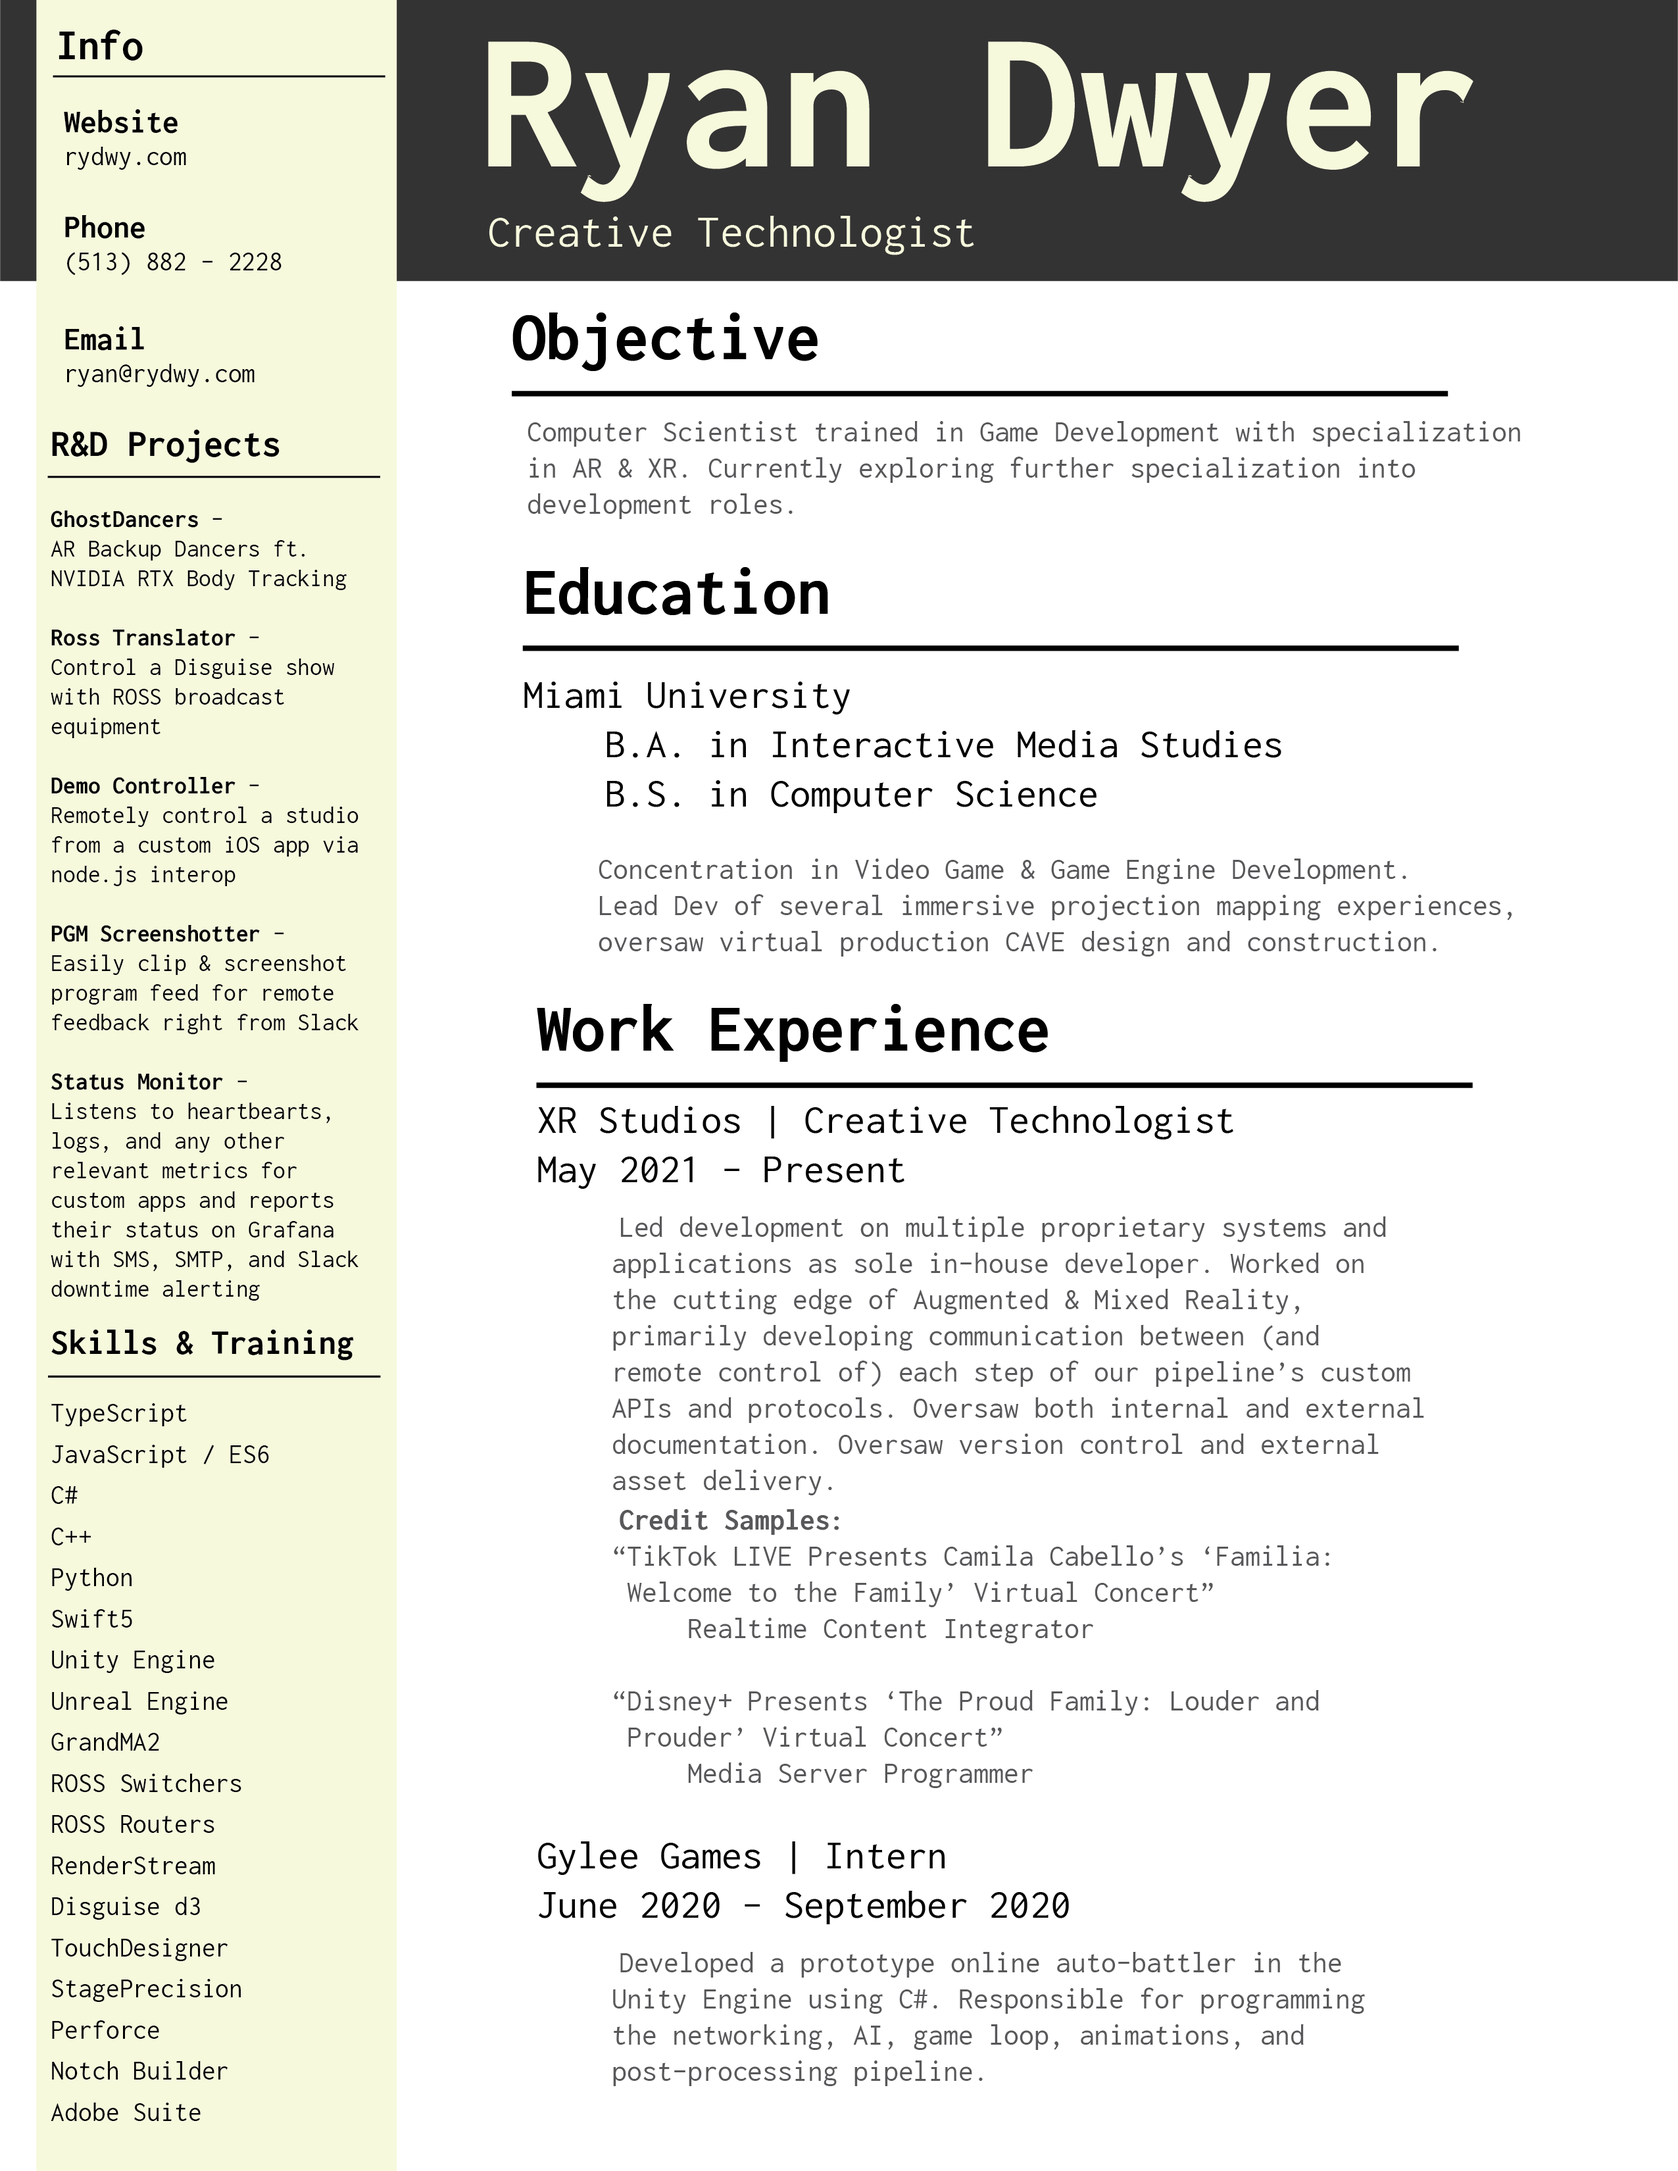
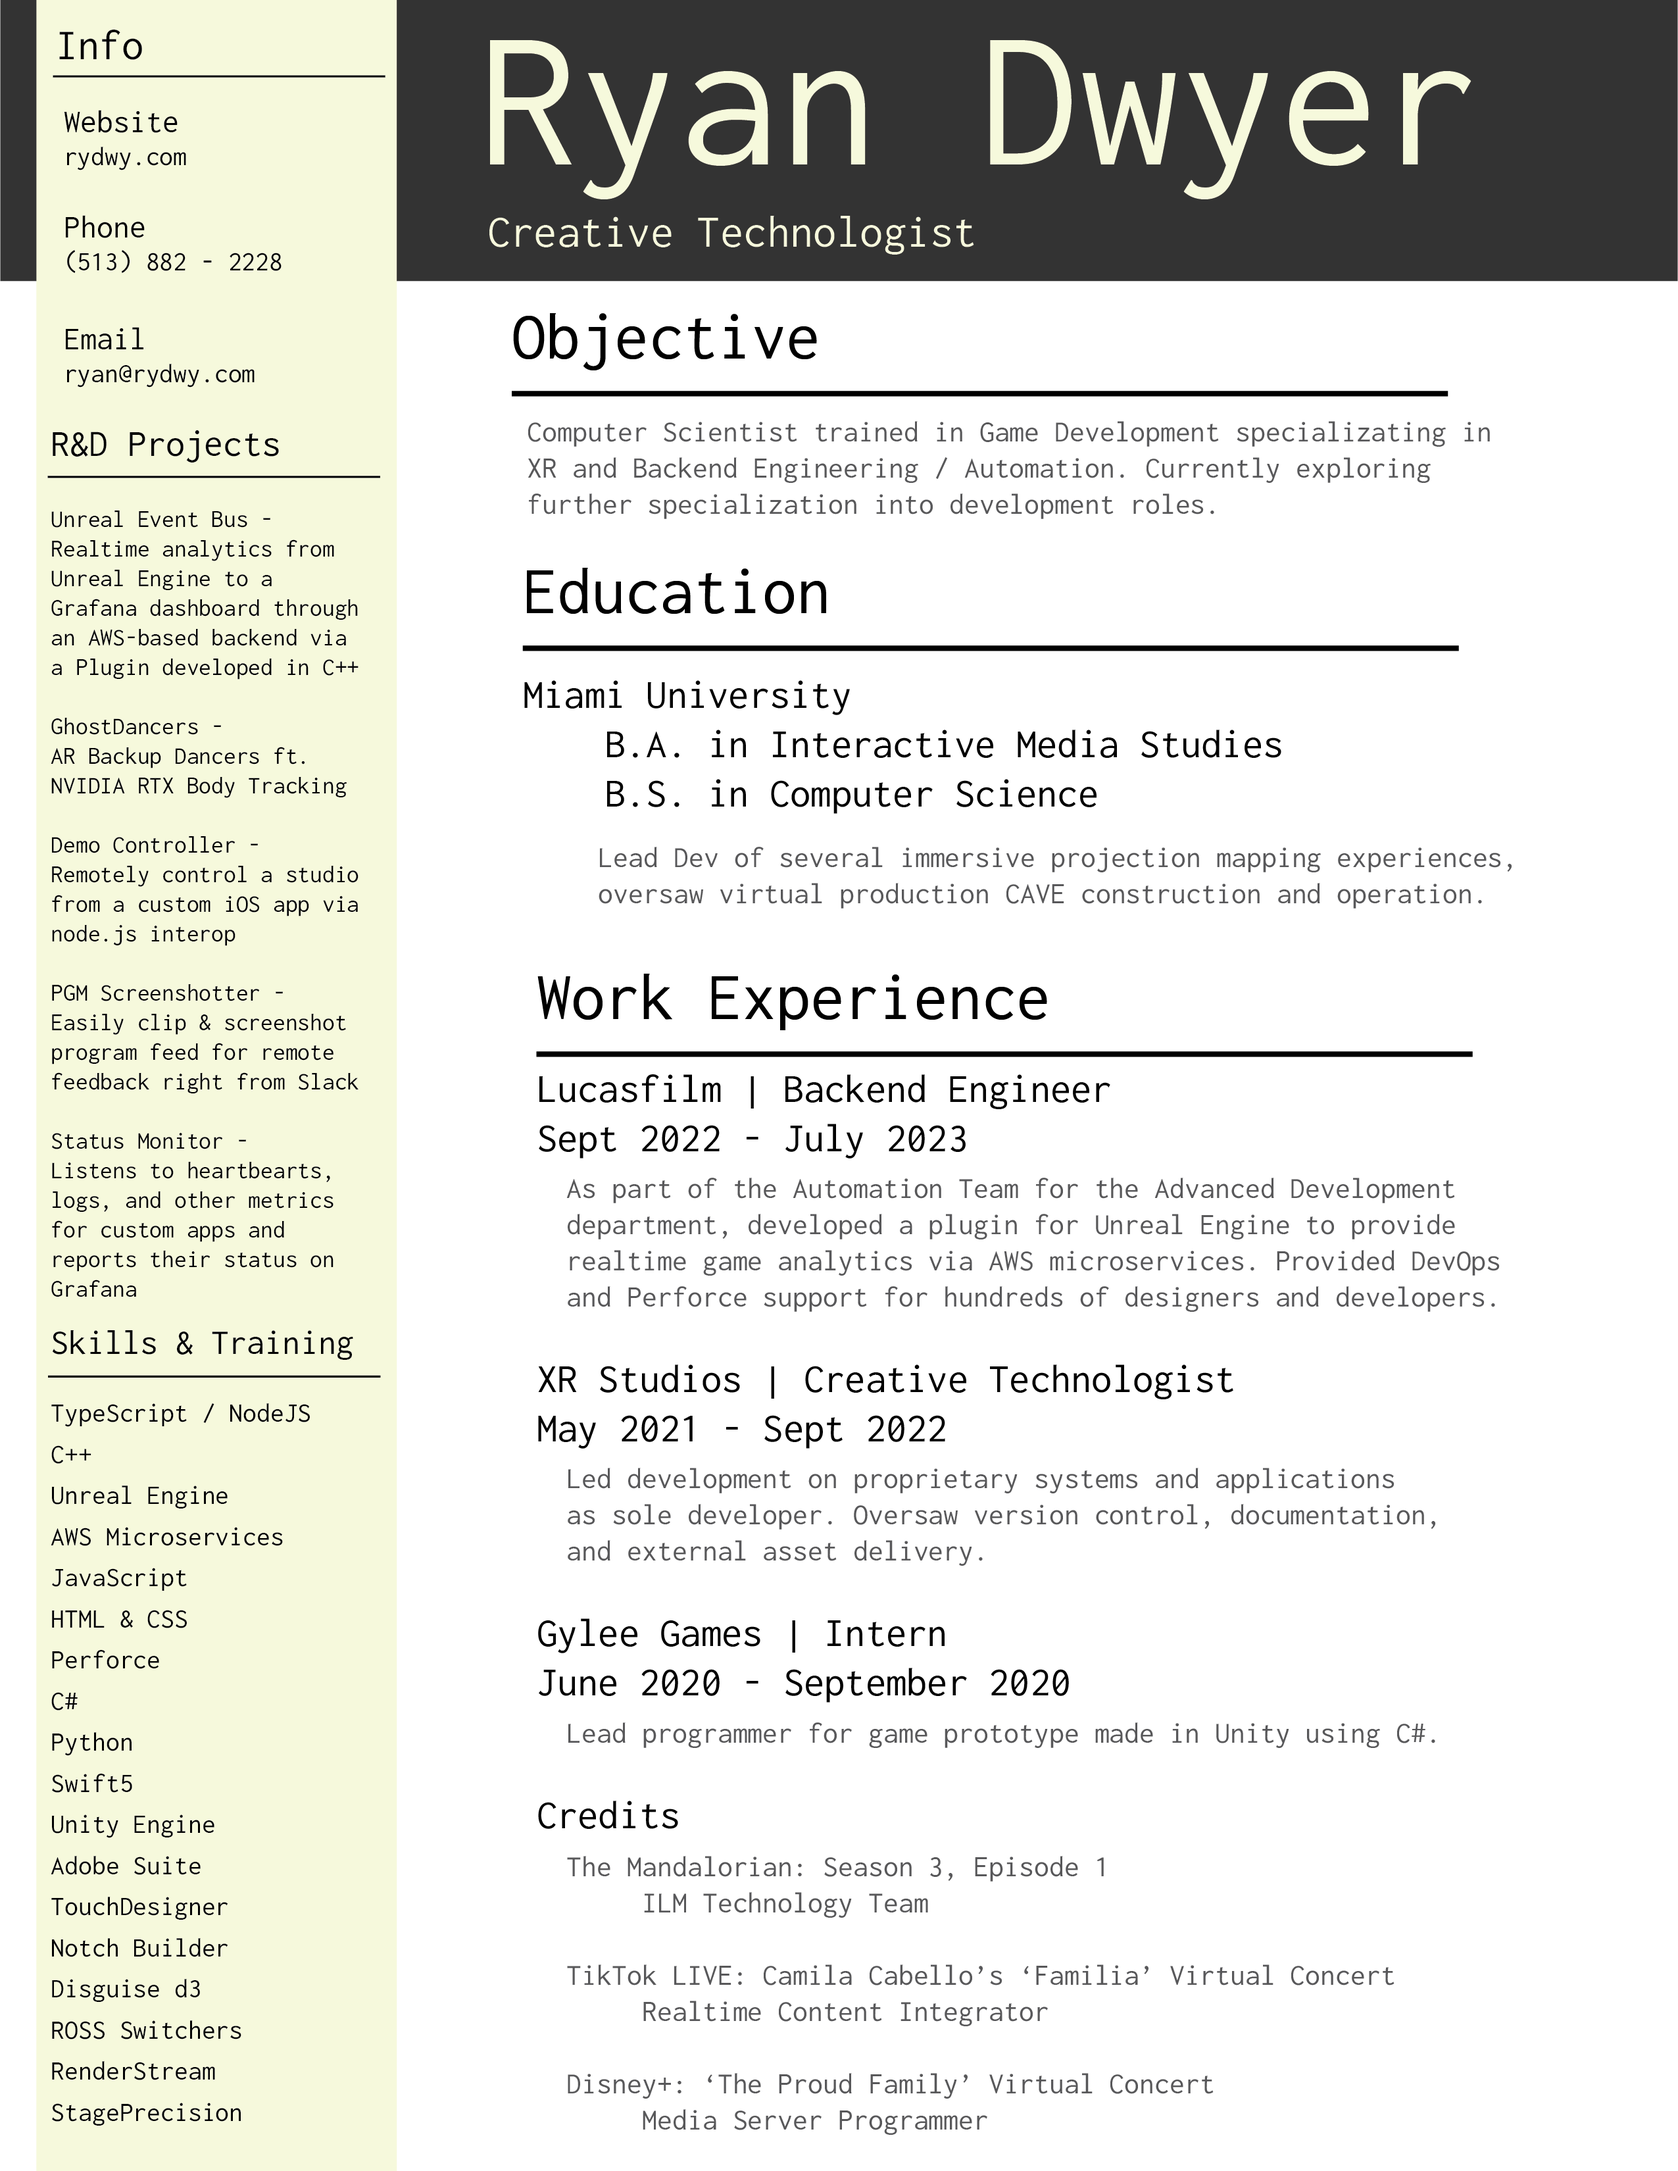
Sync

diff --git a/app.js b/app.js
@@ -1,0 +1,33 @@
+const express = require('express');
+const path = require('path');
+
+const server = express();
+
+server.get('/', (req, res) => {
+	res.sendFile(path.join(__dirname, '/index.html'));
+});
+
+server.get('/README.md', (req, res) => {
+	res.sendFile(path.join(__dirname, '/README.md'));
+});
+
+server.get('/_sidebar.md', (req, res) => {
+	res.sendFile(path.join(__dirname, '/_sidebar.md'));
+});
+
+
+server.get('/resume.md', (req, res) => {
+	res.sendFile(path.join(__dirname, '/resume.md'));
+});
+
+server.get('/portfolio.md', (req, res) => {
+	res.sendFile(path.join(__dirname, '/portfolio.md'));
+});
+
+server.get('/img/:imgName', (req, res) => {
+	console.log("Image Requested: ", req.params.imgName);
+	res.sendFile(path.join(__dirname, '/img/', req.params.imgName));
+});
+
+server.listen(3000);
+console.log("Server listening on port 3000");

diff --git a/portfolio.md b/portfolio.md
@@ -1,6 +1,14 @@
 # Portfolio
-Here is a small sampling of the (public) projects that I have released.  
-Note that I am not at liberty to talk about a lot of the really cool (but proprietary) stuff I have made / worked on.
+Here is a small sampling of the projects that I have developed.  
+Note that I am not at liberty to talk about a lot of the really cool, but proprietary, stuff I have made / worked on.
+
+### Unreal Engine Event Bus
+Tools: Unreal Engine, AWS (API Gateway, Lambda, S3, Kinesis), InfluxDB, Grafana, C++, TypeScript
+
+Unreal Engine, via a Plugin developed in C++, provides an API of methods to be called via either code or visual scripting.  
+This API allows any data desired by the game developers (e.g. hardware info, performance metrics, progression data, etc.) to be tracked and visualized; a [serverless microservice backend](https://aws.amazon.com/serverless/) submits the metrics and events to be tracked on [InfluxDB](https://aws.amazon.com/marketplace/pp/prodview-4e7raoxoxsl4y) which is then visualized on [Grafana](https://grafana.com/).
+
+I cannot say much more or show the plugin in action in the interest of respecting confidentiality -- it is very powerful and extremely useful in all phases of development: for troubleshooting during development cycles, for QA during hardening cycles, and for marketing and analytics post-release.
 
 ### Ghost Backup Dancers
 Tools: Notch, TouchDesigner

diff --git a/README.md b/README.md
@@ -1,8 +1,8 @@
 # Ryan Dwyer - Creative Techologist
 
-<img src="./img/headshot.png" alt="headshot" width="400px" style="padding-top: 2%; border-radius: 50%; padding-bottom: 3%;" />
-
 Hi there! I'm a Computer Scientist trained in video game development with professional on-set experience in XR and Virtual Production.  
 
 
 I currently reside in Los Angeles where I work for [Lucasfilm](https://www.lucasfilm.com/) as a Backend Engineer.
+
+While you're here, check out my [portfolio](http://rydwy.com/#/portfolio)!

diff --git a/_sidebar.md b/_sidebar.md
@@ -1,5 +1,5 @@
 - [About Me](/ "Ryan Dwyer")
-<!--
 - [Portfolio](portfolio.md "Portfolio - Ryan Dwyer")
--->
+<!---
 - [Resumé](resume.md "Resumé - Ryan Dwyer")
+-->
